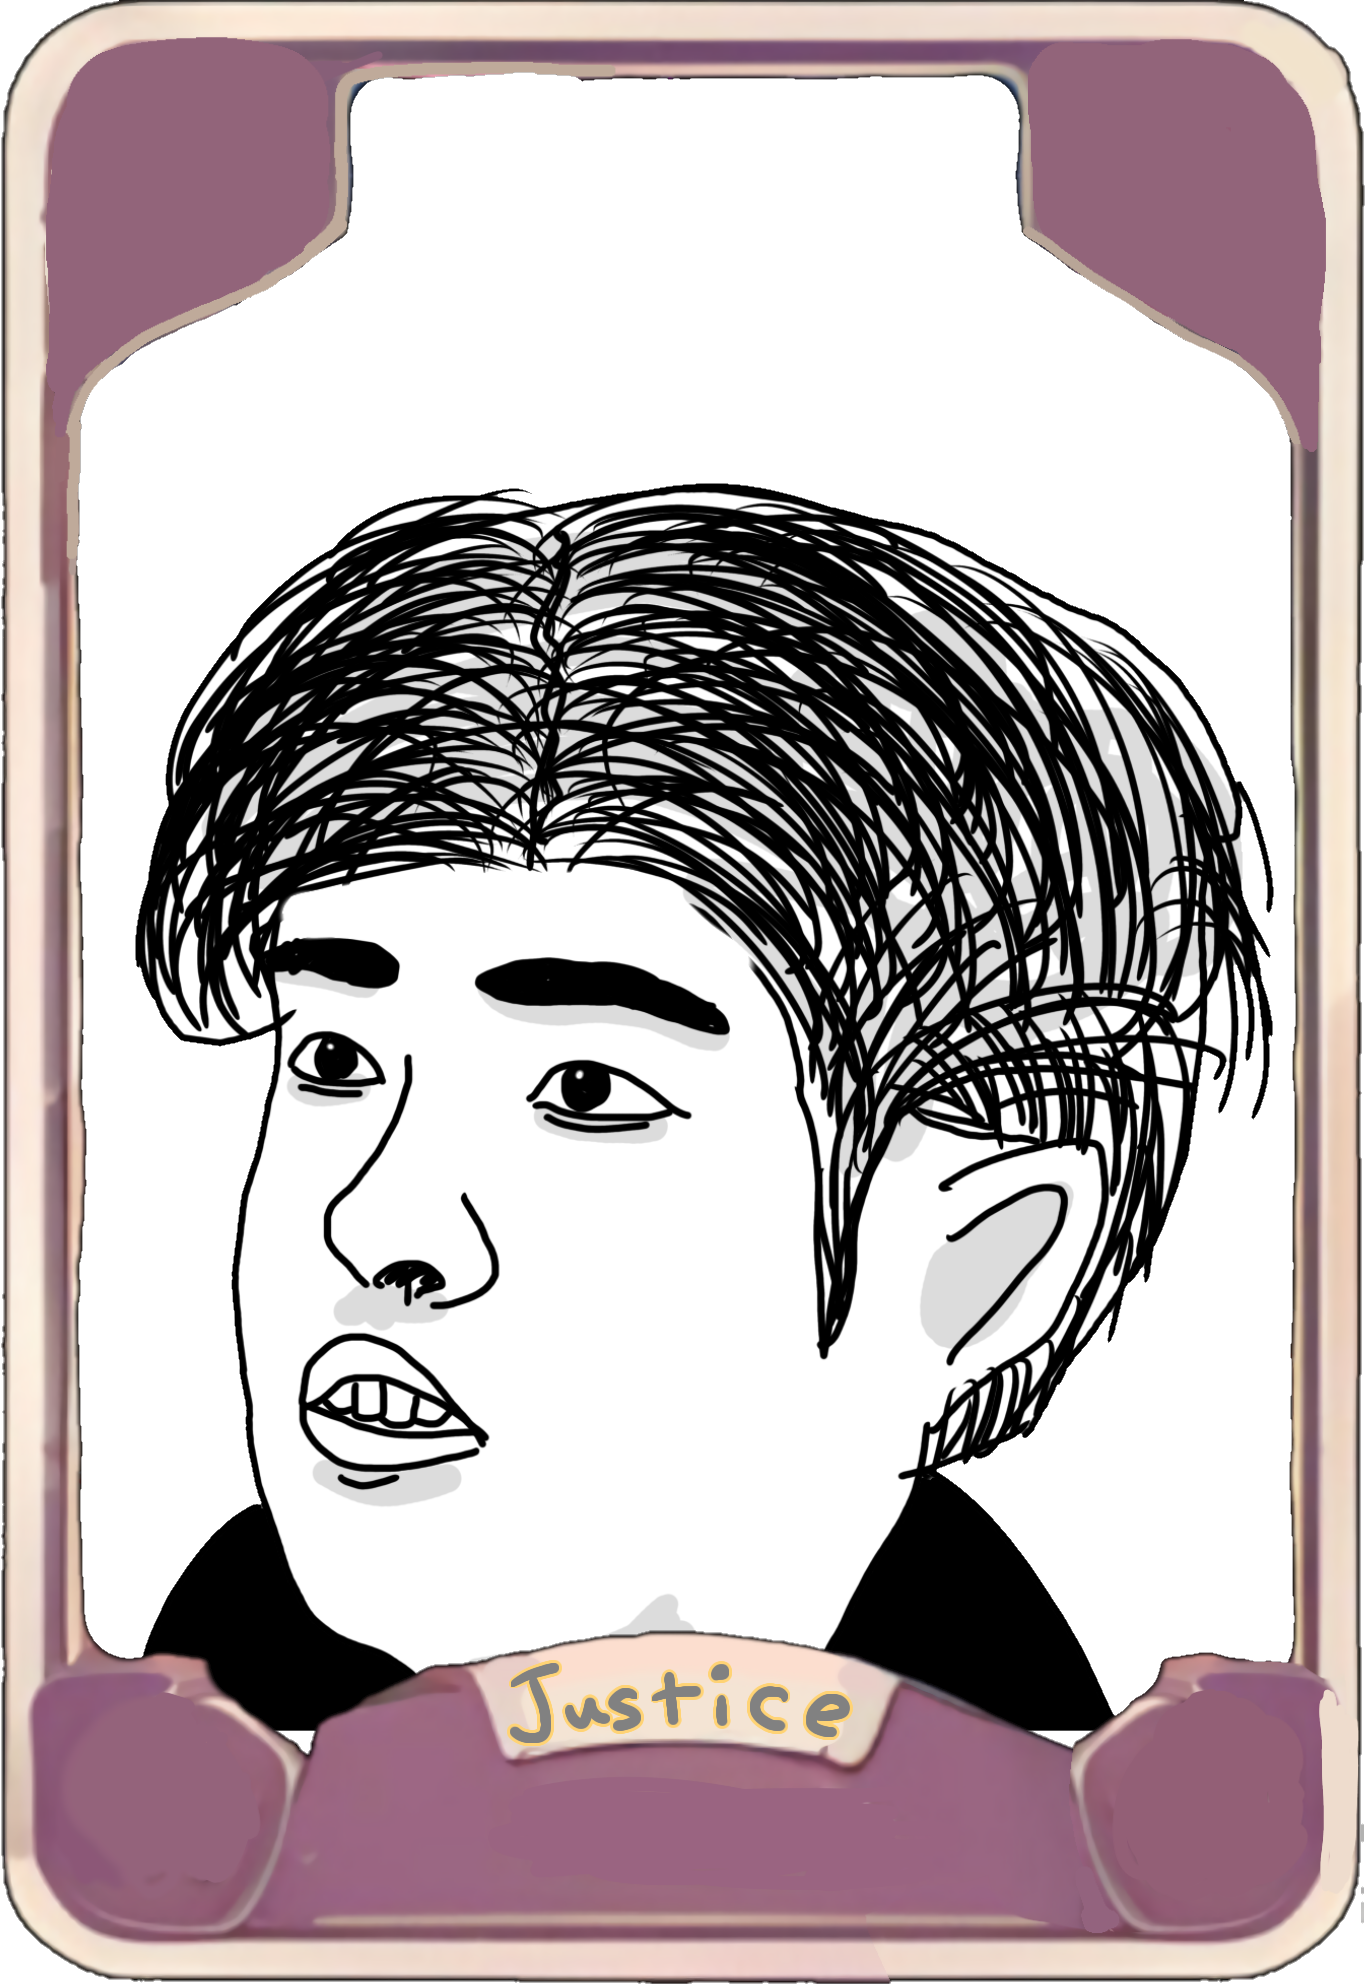
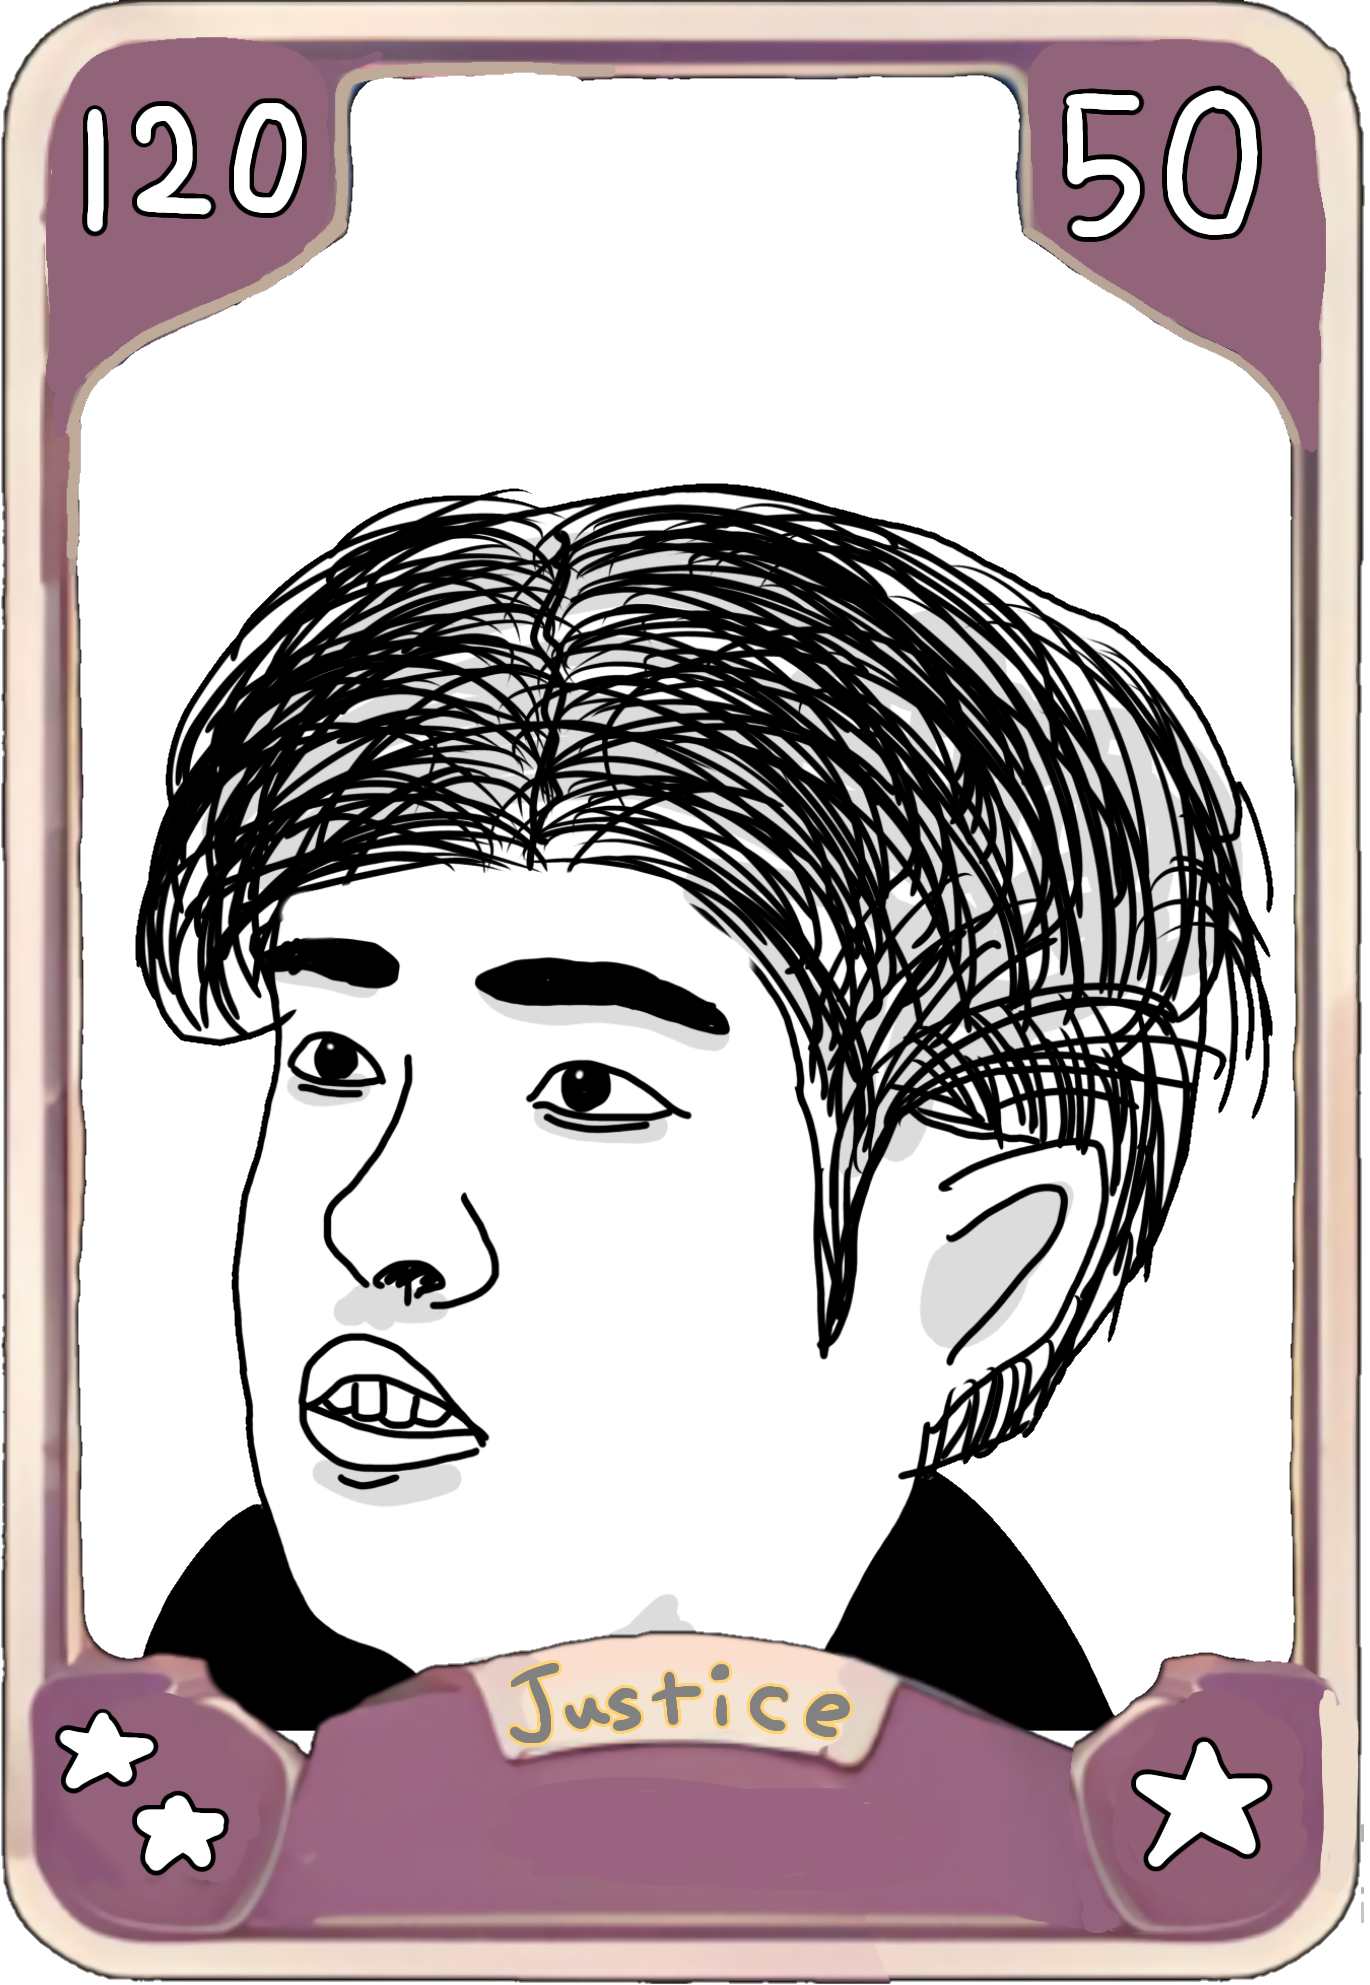
新規カードを追加、それに伴うcards_data.jsonも編集

diff --git a/battle/views.py b/battle/views.py
@@ -2,10 +2,18 @@ from django.http import JsonResponse
 from ulid import ULID
 from battle.models import BattleRoom
 from rest_framework.decorators import api_view
+from morisummon.models import Deck
 
-# Create your views here.
+
 @api_view(["GET"])
 def get_room_slug(request):
+    if not request.user.is_authenticated:
+        return JsonResponse({"error": "ログインしてください"}, status=401)
+
+    deck = Deck.objects.filter(user=request.user).first()
+    if not deck or len(deck.card_ids) != 12:
+        return JsonResponse({"error": "デッキが12枚編成されていません。編成後、再度対戦をお試しください。"}, status=516)
+
     room = BattleRoom.objects.filter(player2=None).first()
     if room:
         return JsonResponse({"found": True, "slug": room.slug})

diff --git a/morisummon/models.py b/morisummon/models.py
@@ -56,13 +56,9 @@ class Card(models.Model):
         ('support', 'サポートカード'),
     ]
     category = models.CharField(max_length=10, choices=CATEGORY_CHOICES,default='character')
-
     # 技名（攻撃時のログ表示用）
     attack_name = models.CharField(max_length=255, blank=True, null=True)
-
-    # パック分類（どのガチャ／パックから出たか）
     pack = models.CharField(max_length=50, blank=True, null=True)
-
     # 特性（自由設定）
     ability = models.TextField(blank=True, null=True)
 

diff --git a/accounts/models.py b/accounts/models.py
@@ -1,10 +1,11 @@
+from django.core.exceptions import ValidationError
 from django.db import models
 from django.contrib.auth.models import AbstractUser
 from morisummon.models import Friendship, FriendRequest
 
 # Create your models here.
 class User(AbstractUser):
-    magic_stones = models.IntegerField(default=0)
+    magic_stones = models.IntegerField(default=100)
 
     def __str__(self):
         return self.username
